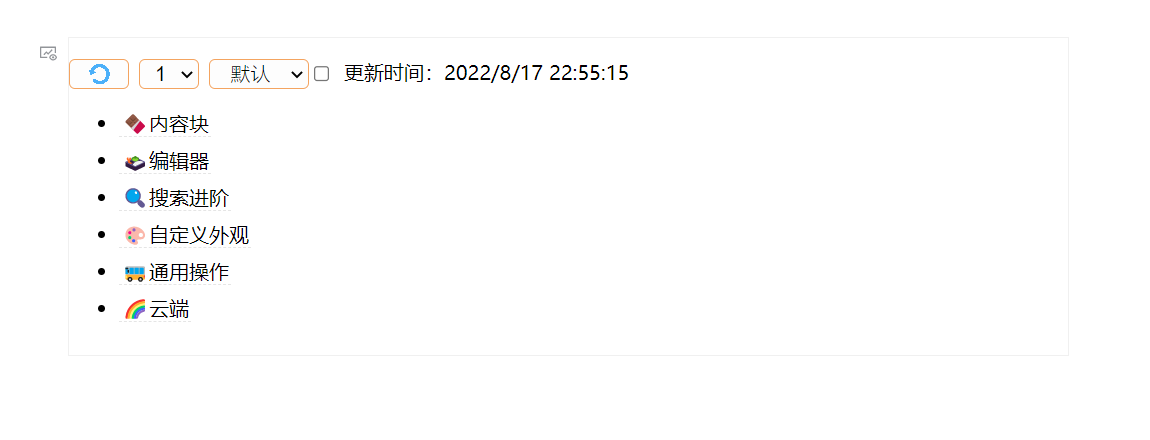
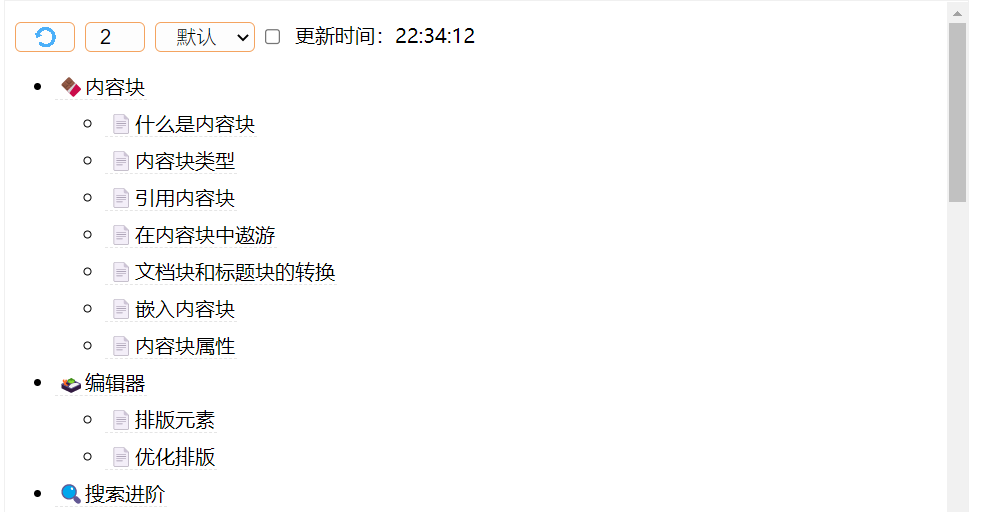
update. README.md

diff --git a/README.md b/README.md
@@ -1,6 +1,6 @@
 ## list Child Docs列出子文档
 
-> 当前版本： v0.0.2 修复：一些情况下重复创建块的问题
+> 当前版本： v0.0.3 修复：`挂件beta`下一些显示问题；改进：深度选择改为输入框；
 
 > 用于思源笔记创建、更新子文档目录列表的挂件，依靠bugs运行。
 
@@ -28,17 +28,19 @@
 
 ### 界面
 
-![图片](README.assets/image-20220814221708461.png)
+![图片](README.assets/image-20220820222440442.png)
+
+![图片](/widgets/listChildDocs/README.assets/image-20220820222440442.png)
 
 1: 刷新按钮：单击将刷新子文档列表 ；双击将保存当前设置 ；
 
 > 以下设置项变更后，需要双击刷新按钮保存设置，否则下次启动时将丢失更改。
 
-2: 子文档列出层级选择：1仅列出直接子文档；
+2: 子文档目录列表深度选择：1仅列出直接子文档，请输入数字；
 
 3: 列表写入模式：
 
-- `默认`： （挂件内）将以`siyuan://`超链接的形式在挂件中展示；
+- `默认`： （挂件内）在挂件中展示`siyuan://`超链接；
 
 - `挂件beta`：（挂件内）在挂件中展示“引用块”；
 
@@ -79,13 +81,19 @@
 
 ## 参考&感谢
 
-本挂件参考了以下大佬的项目：
+本挂件使用/参考了以下大佬的项目：
 
 | 开发者                                      | 项目                                                     | 开源协议                                                     | 备注                 |
 | ------------------------------------------- | -------------------------------------------------------- | ------------------------------------------------------------ | -------------------- |
 | [leolee9086](https://github.com/leolee9086) | [cc-template](https://github.com/leolee9086/cc-template) | [木兰宽松许可证， 第2版](https://github.com/leolee9086/cc-template/blob/main/LICENSE) | 在挂件中展示“引用块“ |
 | [InEase](https://github.com/InEase)         | [Note Map](https://github.com/InEase/SiYuan-Xmind)       | N/A                                                          | API使用方式          |
-|                                             |                                                          |                                                              |                      |
+
+以下大佬参与代码贡献：
+
+| 开发者                                            | PR                                                           |
+| ------------------------------------------------- | ------------------------------------------------------------ |
+| [Zuoqiu-Yingyi](https://github.com/Zuoqiu-Yingyi) | [文档深度下拉框改为输入框PR#1](https://github.com/OpaqueGlass/listChildDocs/pull/1) |
+
 
 
 ### 依赖

diff --git a/CHANGELOG.md b/CHANGELOG.md
@@ -1,5 +1,13 @@
 ## 更新日志
 
+### v0.0.3
+
+- 修复：切换深色模式`挂件beta`字体颜色不更改的问题；
+- 改进：层级下拉选择框改为输入框（by [Zuoqiu-Yingyi](https://github.com/Zuoqiu-Yingyi)  [PR#1](https://github.com/OpaqueGlass/listChildDocs/pull/1)）；
+- 改进：更新时间不再显示日期；
+- 修复：`挂件beta`下鼠标悬停时的一些显示问题；
+
+
 ### v0.0.2
 
 - 修复：在重新打开文档后，重复创建块的问题；
